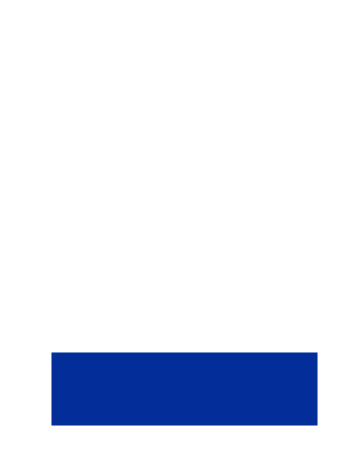
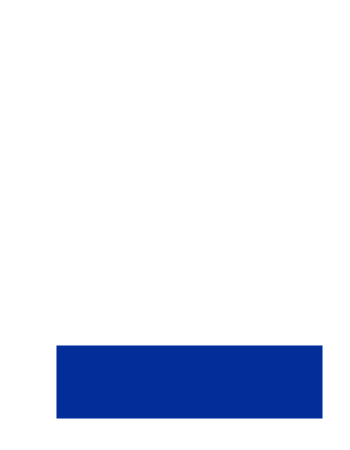
generate dynamic pricing for one route

Changed region(s): [[0.1429, 0.7467, 0.9429, 0.9644]]

diff --git a/services/imageCompositionService.js b/services/imageCompositionService.js
@@ -1,72 +1,75 @@
 const Jimp = require("jimp");
 imageCompositingService = {
-    compositeImage: (data, cb) => {
-        let cardHeaderPromise = new Promise((resolve, reject) => {
-            Jimp.read(data.destinationCityImage)
-                .then(headerImage => {
-                    resolve(headerImage
-                        .cover(350, 145, Jimp.HORIZONTAL_ALIGN_CENTER | Jimp.VERTICAL_ALIGN_CENTER)
-                        .quality(100));
-                })
-                .catch(err => {
-                    reject(err);
-                });
-        });
-        let baseImagePromise = new Promise((resolve, reject) => {
-            Jimp.read('cardTemplate/350x450.png').then(baseImage => {
-                resolve(baseImage)
-            }).catch(ERR => {
-                reject(err)
+    compositeImage: (data) => {
+        return new Promise((resolve, reject) => {
+            let cardHeaderPromise = new Promise((resolve, reject) => {
+                Jimp.read(data.destinationCityImage)
+                    .then(headerImage => {
+                        resolve(headerImage
+                            .cover(350, 145, Jimp.HORIZONTAL_ALIGN_CENTER | Jimp.VERTICAL_ALIGN_CENTER)
+                            .quality(100));
+                    })
+                    .catch(err => {
+                        reject(err);
+                    });
             });
-        })
+            let baseImagePromise = new Promise((resolve, reject) => {
+                Jimp.read('cardTemplate/350x450.png').then(baseImage => {
+                    resolve(baseImage)
+                }).catch(ERR => {
+                    reject(err)
+                });
+            })
         Promise.all([cardHeaderPromise, baseImagePromise]).then(results => {
-            const dateFontPromise = new Promise((resolve, reject) => {
-                Jimp.loadFont('cardTemplate/dateFont.fnt', function (err, datefont) {
-                    !err ? resolve(datefont) : reject(err)
-                });
-            })
-            const priceFontPromise = new Promise((resolve, reject) => {
-                Jimp.loadFont('cardTemplate/priceFont.fnt', function (err, priceFont) {
-                    !err ? resolve(priceFont) : reject(err)
-                });
-            })
-            const buttonfontPromise = new Promise((resolve, reject) => {
-                Jimp.loadFont('cardTemplate/buttonFont.fnt', function (err, buttonfont) {
-                    !err ? resolve(buttonfont) : reject(err)
-                });
-            })
-            const timestampfontPromise = new Promise((resolve, reject) => {
-                Jimp.loadFont('cardTemplate/updatedTimeFont.fnt', function (err, timestampfont) {
-                    !err ? resolve(timestampfont) : reject(err)
-                });
-            })
-            const routefontPromise = new Promise((resolve, reject) => {
-                if (data.route.length > 34) {
-                    Jimp.loadFont('cardTemplate/routeFontSmaller.fnt', function (err, routefont) {
-                        !err ? resolve(routefont) : reject(err)
+                const dateFontPromise = new Promise((resolve, reject) => {
+                    Jimp.loadFont('cardTemplate/dateFont.fnt', function (err, datefont) {
+                        !err ? resolve(datefont) : reject(err)
                     });
-                } else {
-                    Jimp.loadFont('cardTemplate/routeFont.fnt', function (err, routefont) {
-                        !err ? resolve(routefont) : reject(err)
+                })
+                const priceFontPromise = new Promise((resolve, reject) => {
+                    Jimp.loadFont('cardTemplate/priceFont.fnt', function (err, priceFont) {
+                        !err ? resolve(priceFont) : reject(err)
                     });
-                }
+                })
+                const buttonfontPromise = new Promise((resolve, reject) => {
+                    Jimp.loadFont('cardTemplate/buttonFont.fnt', function (err, buttonfont) {
+                        !err ? resolve(buttonfont) : reject(err)
+                    });
+                })
+                const timestampfontPromise = new Promise((resolve, reject) => {
+                    Jimp.loadFont('cardTemplate/updatedTimeFont.fnt', function (err, timestampfont) {
+                        !err ? resolve(timestampfont) : reject(err)
+                    });
+                })
+                const routefontPromise = new Promise((resolve, reject) => {
+                    if (data.route.length > 34) {
+                        Jimp.loadFont('cardTemplate/routeFontSmaller.fnt', function (err, routefont) {
+                            !err ? resolve(routefont) : reject(err)
+                        });
+                    } else {
+                        Jimp.loadFont('cardTemplate/routeFont.fnt', function (err, routefont) {
+                            !err ? resolve(routefont) : reject(err)
+                        });
+                    }
+                })
+                Promise.all([dateFontPromise, priceFontPromise, buttonfontPromise, routefontPromise, timestampfontPromise]).then(fonts => {
+                    results[1]
+                        .composite(results[0], 0, 0)
+                        .print(fonts[3], 20, 175, data.route)
+                        .print(fonts[0], 20, 215, `Leaving ${data.departureDate}`)
+                        .print(fonts[0], 200, 300, `Each way / ${data.fareClass}`)
+                        .print(fonts[1], 240, 260, `$${data.price}`)
+                        .print(fonts[2], 125, 365, "BUY NOW")
+                        .print(fonts[4], 15, 430, `Prices updated ${new Date(data.searchDate).toLocaleString()}`)
+                        .quality(100)
+                        .getBuffer(Jimp.MIME_JPEG, (e, imageBuffer) => {
+                            resolve(imageBuffer);
+                        });
+                });
             })
-            Promise.all([dateFontPromise, priceFontPromise, buttonfontPromise, routefontPromise,timestampfontPromise]).then(fonts => {
-                results[1]
-                    .composite(results[0], 0, 0)
-                    .print(fonts[3], 20, 175, data.route)
-                    .print(fonts[0], 20, 215, `Leaving ${data.departureDate}`)
-                    .print(fonts[0], 175, 300, `Each way / ${data.fareClass}`)
-                    .print(fonts[1], 240, 260, `$${data.price}`)
-                    .print(fonts[2], 125, 370, "BUY NOW")
-                    .print(fonts[4], 100, 400, `Prices updated ${data.searchDate}`)
-                    .quality(100)
-                    .getBuffer(Jimp.MIME_JPEG, (e, imageBuffer) => {
-                        cb(imageBuffer);
-                    });
-            });
         });
     }
+
 }
 
 module.exports = imageCompositingService;

diff --git a/services/imageGenerationService.js b/services/imageGenerationService.js
@@ -3,7 +3,7 @@ const imageCompositionService = require("../services/imageCompositionService");
 process.env.NODE_ENV === "production" ? null : require("dotenv").config()
 imageGenerationService = {
     getFlightInfo: (index, airline, campaignId) => {
-        return axios.post(`${process.env.FARES_API}${airline}/fares/grouped-routes`, {"flightType":"ONE_WAY","travelClasses":["ECONOMY"],"priceFormat":{"decimalSeparator":"","thousandSeparator":"","decimalPlaces":0},"datePattern":"MM/dd/yyyy","languageCode":"en","outputCurrencies":["USD"],"routesLimit":11,"faresPerRoute":1,"dataExpirationWindow":"1d","outputFields":["returnDate","usdTotalPrice","popularity","originCity","destinationCity","destinationAirportImage","destinationCityImage","destinationStateImage","destinationCountryImage","destinationRegionImage","farenetTravelClass","travelClass","flightDeltaDays"],"sorting":[{"popularity":"DESC"},{"usdTotalPrice":"ASC"}],"departure":{"start":"2019-02-10","end":"2019-05-11"},"origins":[],"destinations":[]}, {
+        return axios.post(`${process.env.FARES_API}${airline}/fares/grouped-routes`, { "flightType": "ONE_WAY", "travelClasses": ["ECONOMY"], "priceFormat": { "decimalSeparator": "", "thousandSeparator": "", "decimalPlaces": 0 }, "datePattern": "MM/dd/yyyy", "languageCode": "en", "outputCurrencies": ["USD"], "routesLimit": 11, "faresPerRoute": 1, "dataExpirationWindow": "1d", "outputFields": ["returnDate", "usdTotalPrice", "popularity", "originCity", "destinationCity", "destinationAirportImage", "destinationCityImage", "destinationStateImage", "destinationCountryImage", "destinationRegionImage", "farenetTravelClass", "travelClass", "flightDeltaDays"], "sorting": [{ "popularity": "DESC" }, { "usdTotalPrice": "ASC" }], "departure": { "start": "2019-02-10", "end": "2019-05-11" }, "origins": [], "destinations": [] }, {
             headers: {
                 "Authorization": `${process.env.FARES_TOKEN}`
             },
@@ -11,8 +11,8 @@ imageGenerationService = {
             contentType: "application/json;charset=UTF-8"
         })
     },
-    retriveImages: (index, airline, campaignId) => {
-        return getFlightInfo(index, airline, campaignId).then((res)=>{
+    retrieveImages(index, airline, campaignId) {
+        return this.getFlightInfo(index, airline, campaignId).then((res) => {
             let fare = res.data[index - 1];
             let insertData = {
                 route: `${fare.originCity} (${fare.origin}) to ${fare.destinationCity} (${fare.destination})`,
@@ -21,9 +21,9 @@ imageGenerationService = {
                 searchDate: fare.fares[0].searchDate,
                 price: fare.fares[0].usdTotalPrice
             }
-            imageCompositionService.compositeImage(insertDataimage, image => {
-                return image;
-            });
+            return imageCompositionService.compositeImage(insertData).then(image => {
+                return image
+            })
         });
     }
 }

diff --git a/controllers/api.js b/controllers/api.js
@@ -82,6 +82,7 @@ router.get("/airlinesTest", (req, res) => {
 router.get("/generateCard/:index/:airline/:campaignId", (req, res) => {
     let {index, airline, campaignId} = req.params;
     imageGeneration.retrieveImages(index, airline, campaignId).then(image =>{
+        console.log(image)
         res.writeHead(200, {
             'Content-Type': 'image/jpg',
             'Content-Length': image.length
